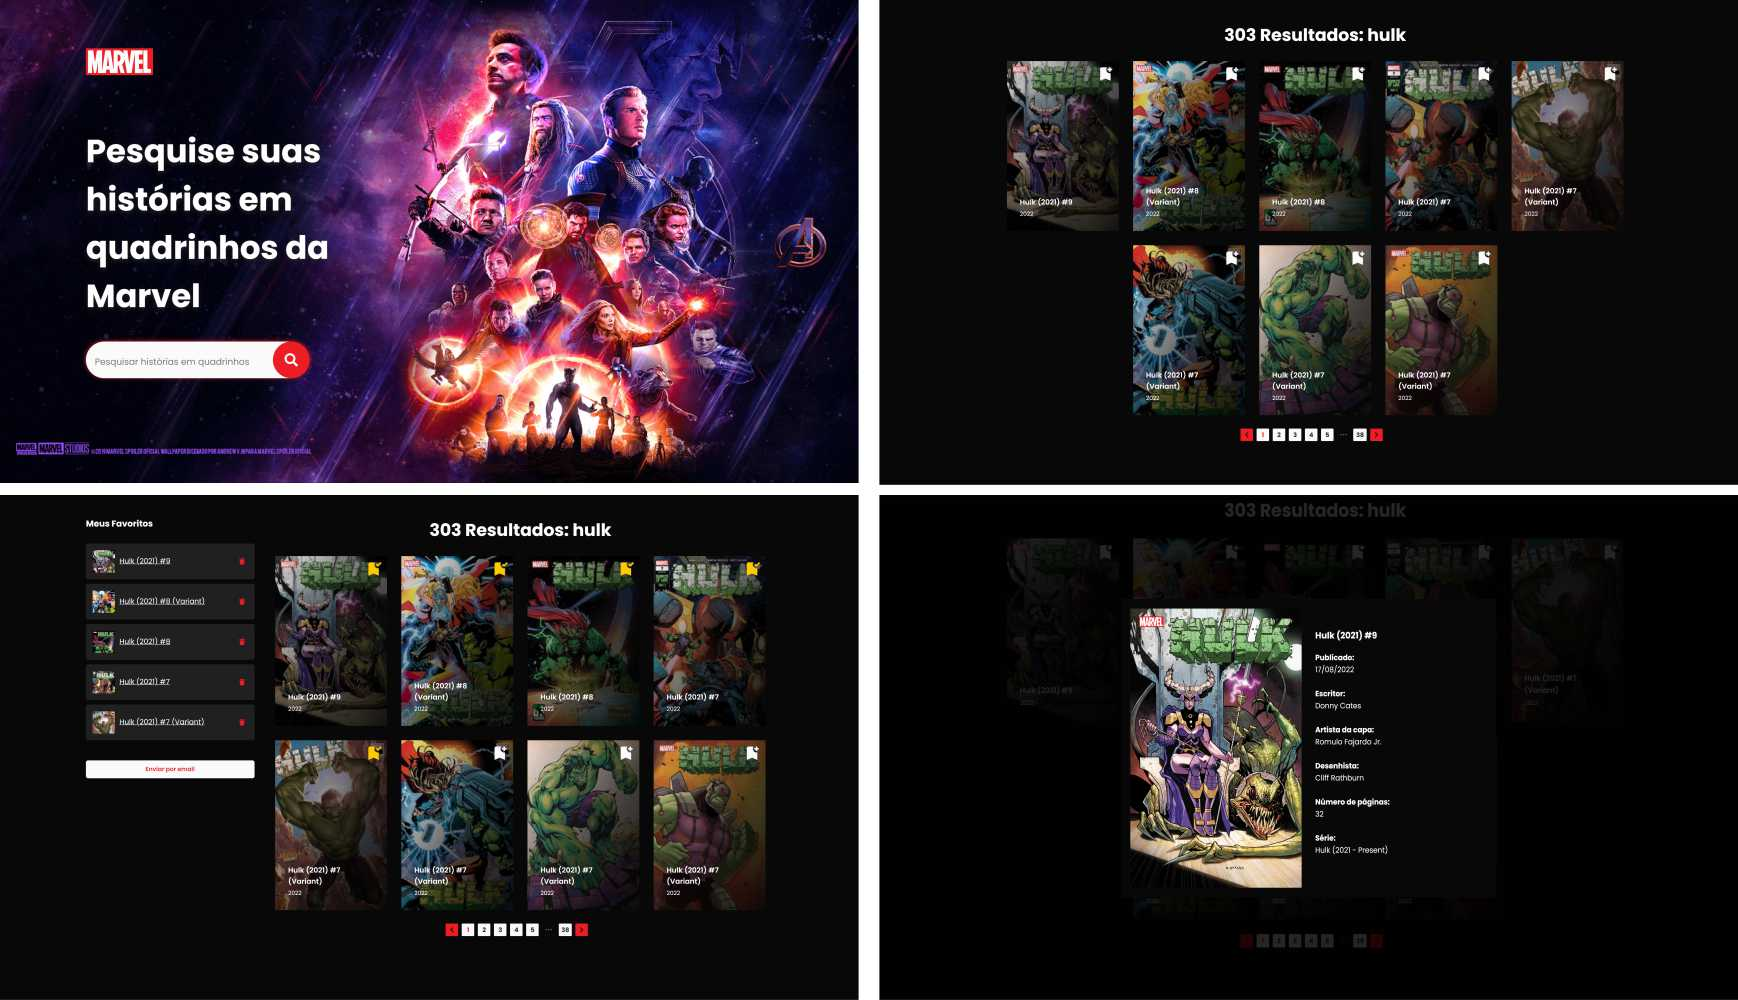
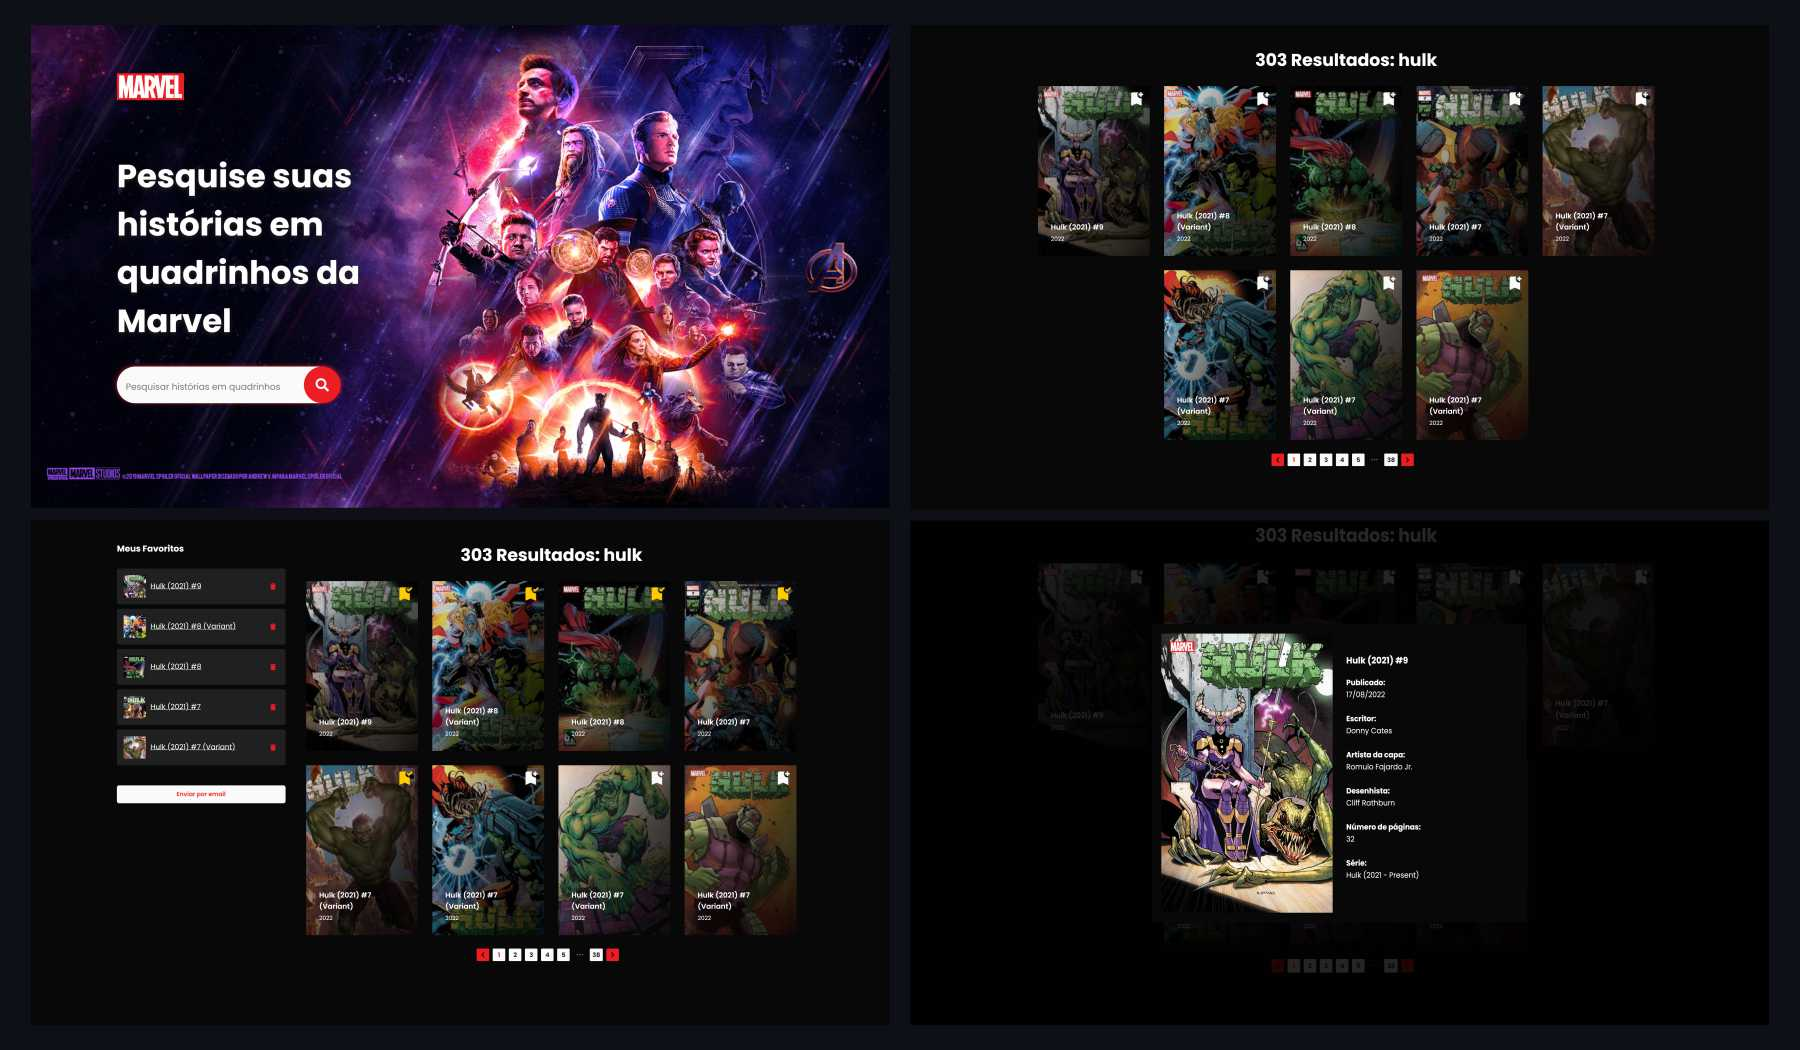
update readme.md

diff --git a/src/containers/ComicsContainer/index.tsx b/src/containers/ComicsContainer/index.tsx
@@ -56,6 +56,9 @@ const ComicsContainer: React.FC = () => {
           total={comics?.data.total}
           defaultPageSize={8}
           onChange={changePage}
+          style={{
+            marginBottom: "50px"
+          }}
         />
       </Box>
     </Wrapper>

diff --git a/README.md b/README.md
@@ -6,7 +6,7 @@ Disponível em: [https://softdesign-frontend.vercel.app/](https://softdesign-fro
 
 ## Funcionamento
 
-A tela principal exibe uma imagem dos vingadores, com um input de pesquisa, ao pesquisar sobre determinado quadrinhos, a página rola até uma lista de quadrinhos com paginação, nessa lista temos cards que exibem a capa, título e ano do quadrinho, ao clicar na imagem, abre uma modal com mais informações do quadrinho, ao clicar no ícone de favoritos, exibe ao lado uma lista de quadrinhos favoritados, tendo opção de enviar por email a de favoritos ao clicar no botão e inserir o email. Caso o usuário insira uma url que não invalida,
+A tela principal exibe uma imagem dos vingadores, com um input de pesquisa, ao pesquisar sobre determinado quadrinhos, a página rola até uma lista de quadrinhos com paginação, nessa lista temos cards que exibem a capa, título e ano do quadrinho, ao clicar na imagem, abre uma modal com mais informações do quadrinho, ao clicar no ícone de favoritos, exibe ao lado uma lista de quadrinhos favoritados, tendo opção de enviar por email os favoritos ao clicar no botão e inserir o email. Caso o usuário insira uma url que não é invalida,
 retorna uma página de erro 404 - página não encontrada. 
 
 ![image](./assets/thumbnail.jpg)
@@ -15,12 +15,12 @@ retorna uma página de erro 404 - página não encontrada.
 
 - A aplicação foi construída com React, utilizando a ferramenta Vite.
 - A ferramenta Vite visa fornecer uma experiência de desenvolvimento mais rápida e enxuta para projetos web modernos.
-- O layout responsivo (web | mobile) foi construído com Styled Components e utilizado tema personalizável.
-- O formulário de pesquisa, foi utilizado o react-hook-form com o validador yup.
-- Para envio do email, foi utilizado a ferramenta EmailJs, onde permite enviar e-mails pelo frontend.
 - Foi utilizado no projeto Typescript, Lint.
 - Construído base nos princípios do Solid.
 - Foi utilizado gerenciamento de estado com ContextApi.
+- O layout responsivo (web | mobile) foi construído com Styled Components e utilizado tema personalizável.
+- O formulário de pesquisa, foi utilizado o react-hook-form com o validador yup.
+- Para envio do email, foi utilizado a ferramenta EmailJs, onde permite enviar e-mails pelo frontend.
 
 ## Tecnologias
 
